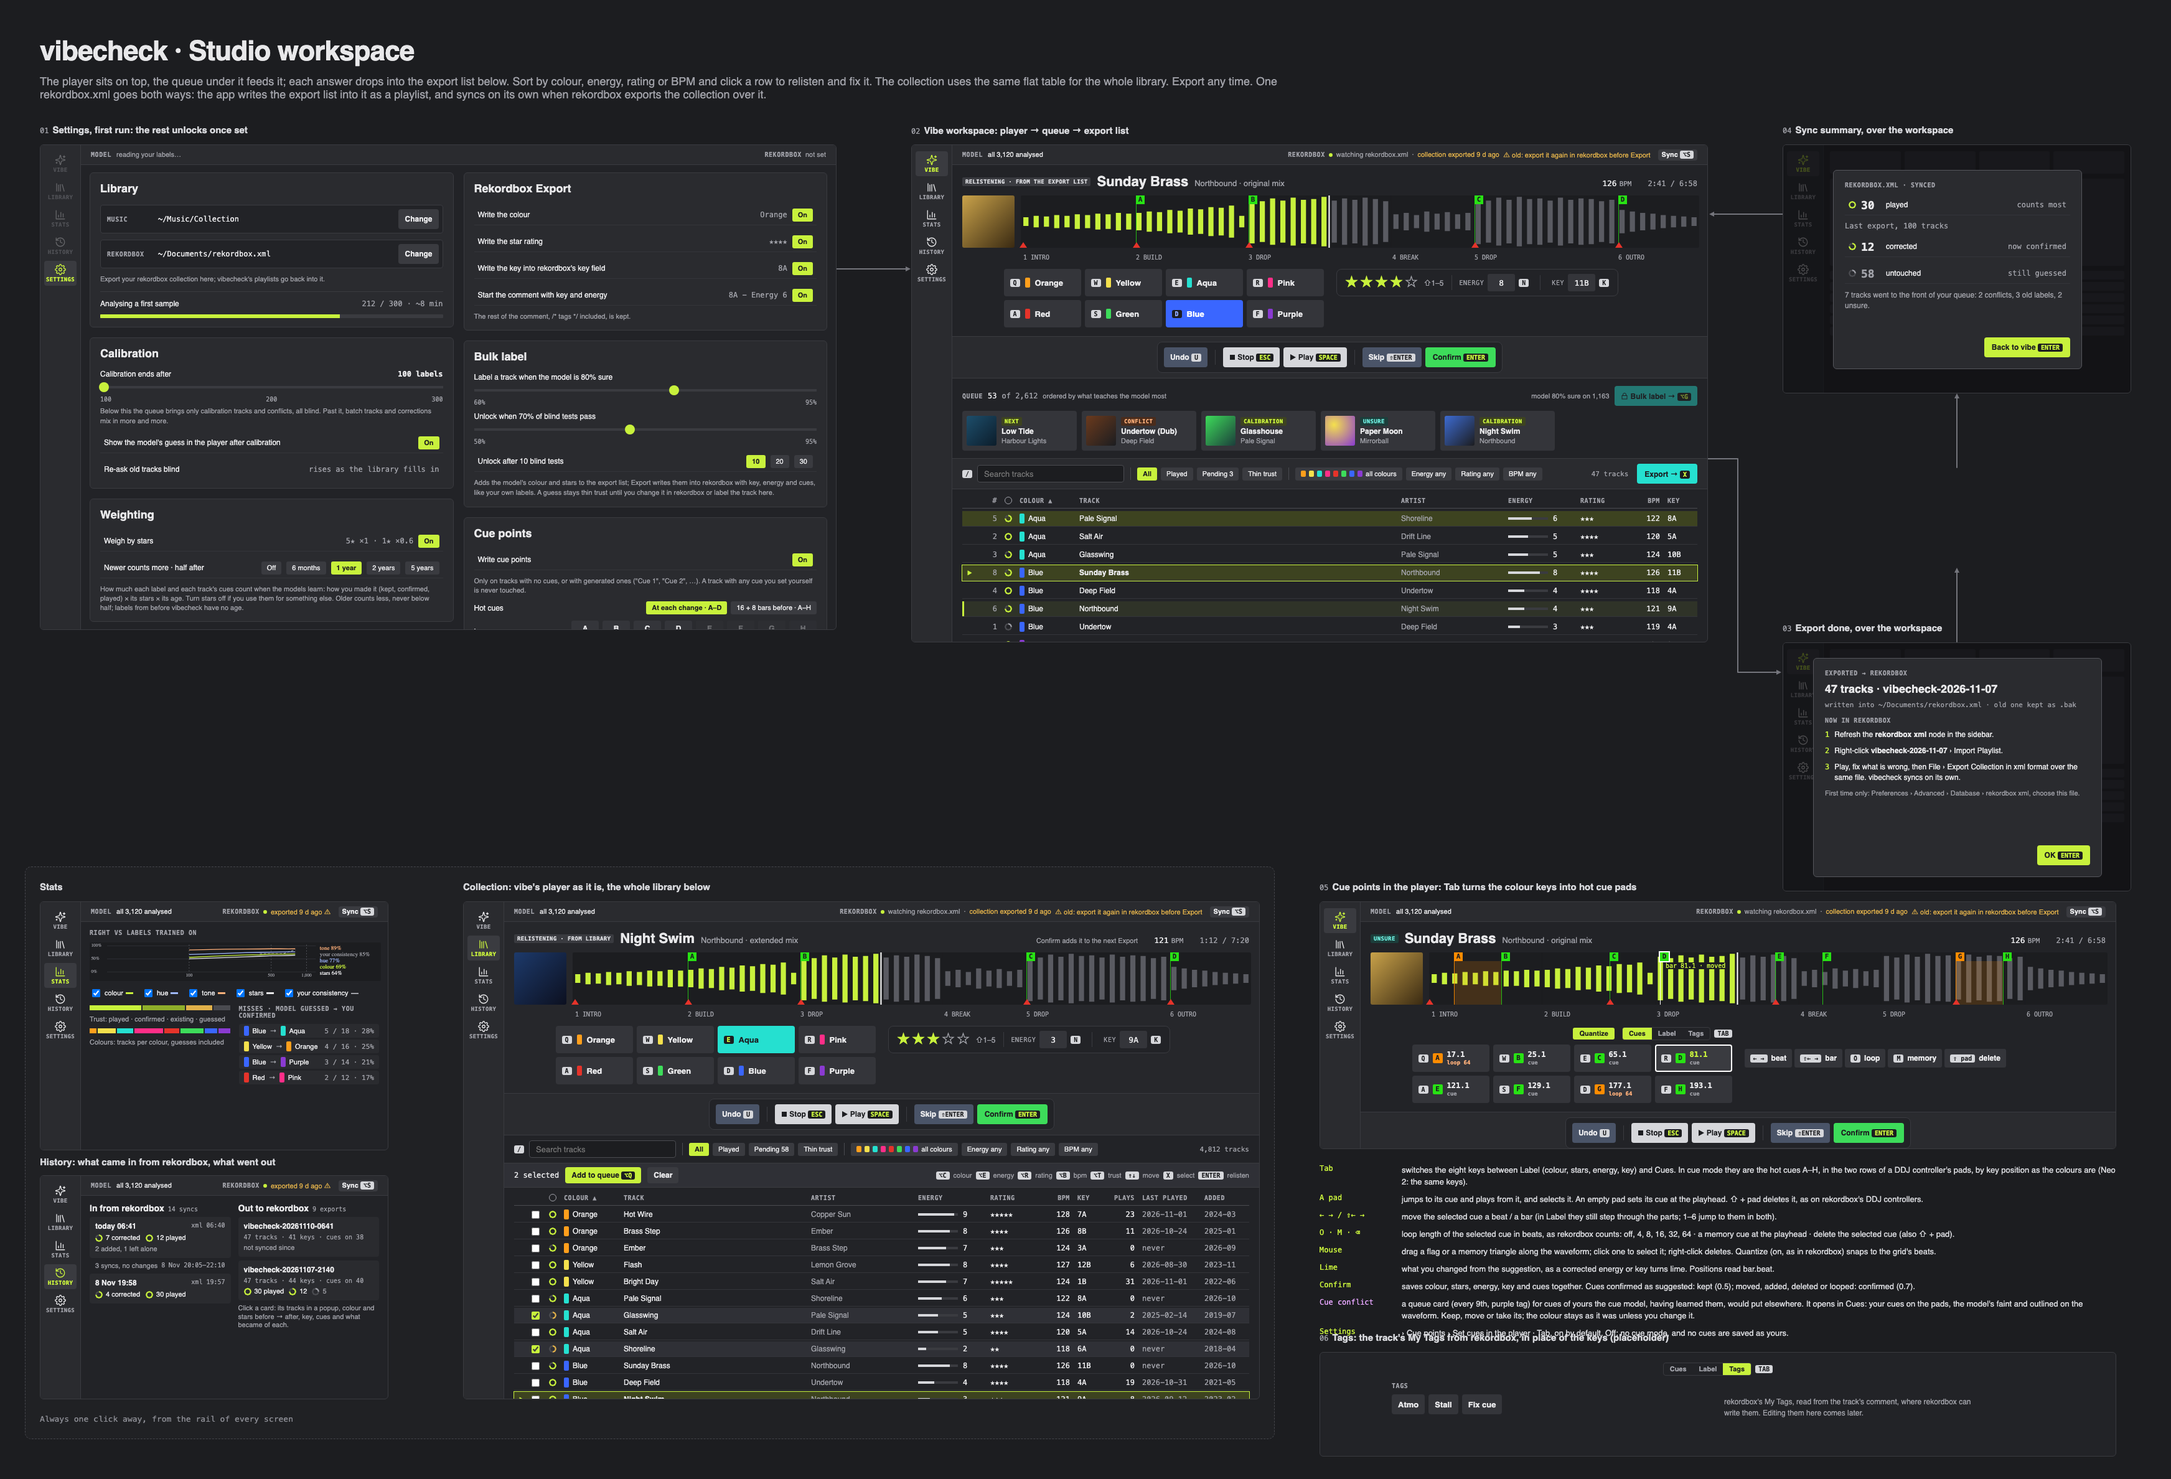
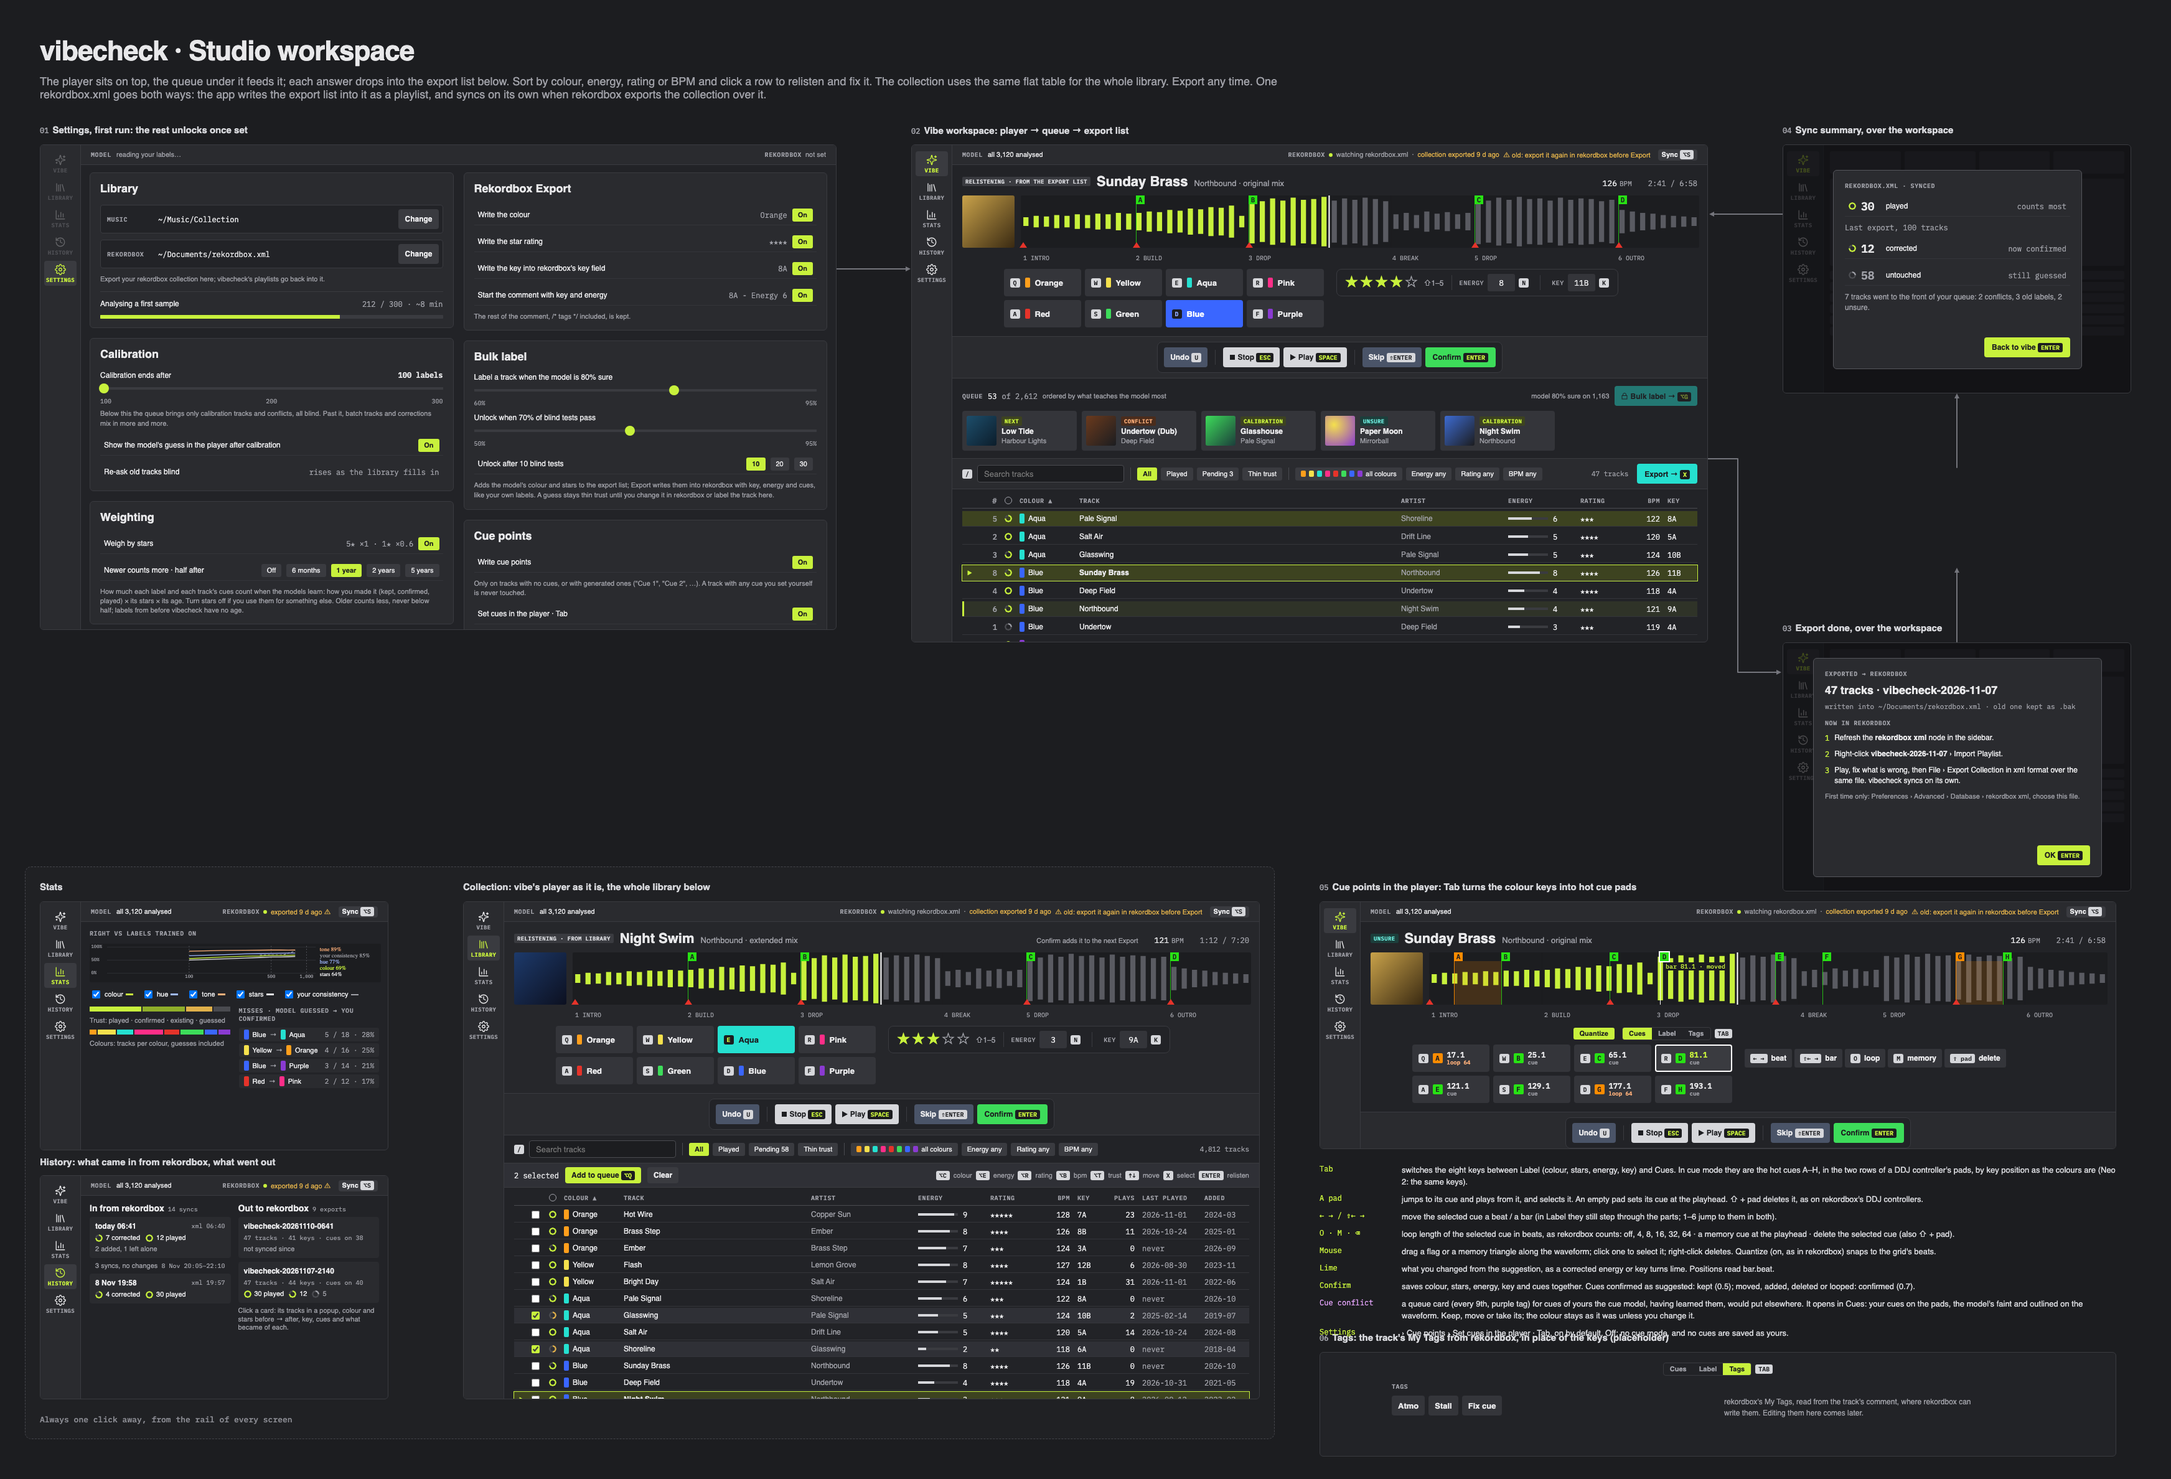
cues: remove placement settings (lead, loops, memory); v2 learns them, shipped v1 places one cue per change A-D with memory cues

diff --git a/docs/ui/workspace.html b/docs/ui/workspace.html
@@ -189,10 +189,8 @@ a{color:#c8f13c}a:hover{color:#e0ff7a}
 <div style="background: #2a2b2f; border: 1px solid #3a3b40; border-radius: 6px; padding: 14px 16px; display: flex; flex-direction: column; gap: 10px"><div style="display: flex; flex-direction: column; gap: 2px; margin-bottom: 6px"><span style="font-size: 18px; font-weight: 800">Cue points</span></div>
 <div class="tr" style="height: 32px"><span style="flex: 1">Write cue points</span><span class="chip chon">On</span></div>
 <span style="font-size: 11px; line-height: 15px; color: #a0a1a8">Only on tracks with no cues, or with generated ones ("Cue 1", "Cue 2", …). A track with any cue you set yourself is never touched.</span>
-<div style="display: flex; align-items: center; gap: 6px; font-size: 12px"><span style="flex: 1">Hot cues</span><span class="chip chon">At each change · A–D</span><span class="chip">16 + 8 bars before · A–H</span></div>
-<div style="display: flex; align-items: center; gap: 6px; font-size: 12px"><span style="flex: 1">Loops</span><div style="width: 44px; height: 36px; box-sizing: border-box; border-radius: 3px; background: #34353a; display: flex; flex-direction: column; align-items: center; justify-content: center; font-size: 12px; font-weight: 700">A<span style="font: 500 9px 'IBM Plex Mono', monospace; color: #a0a1a8">cue</span></div><div style="width: 44px; height: 36px; box-sizing: border-box; border-radius: 3px; background: #34353a; display: flex; flex-direction: column; align-items: center; justify-content: center; font-size: 12px; font-weight: 700">B<span style="font: 500 9px 'IBM Plex Mono', monospace; color: #a0a1a8">cue</span></div><div style="width: 44px; height: 36px; box-sizing: border-box; border-radius: 3px; background: #34353a; display: flex; flex-direction: column; align-items: center; justify-content: center; font-size: 12px; font-weight: 700">C<span style="font: 500 9px 'IBM Plex Mono', monospace; color: #a0a1a8">cue</span></div><div style="width: 44px; height: 36px; box-sizing: border-box; border-radius: 3px; background: #34353a; display: flex; flex-direction: column; align-items: center; justify-content: center; font-size: 12px; font-weight: 700">D<span style="font: 500 9px 'IBM Plex Mono', monospace; color: #a0a1a8">cue</span></div><div style="width: 44px; height: 36px; box-sizing: border-box; border-radius: 3px; background: #34353a; opacity: .35; display: flex; flex-direction: column; align-items: center; justify-content: center; font-size: 12px; font-weight: 700">E<span style="font: 500 9px 'IBM Plex Mono', monospace; color: #a0a1a8">cue</span></div><div style="width: 44px; height: 36px; box-sizing: border-box; border-radius: 3px; background: #34353a; opacity: .35; display: flex; flex-direction: column; align-items: center; justify-content: center; font-size: 12px; font-weight: 700">F<span style="font: 500 9px 'IBM Plex Mono', monospace; color: #a0a1a8">cue</span></div><div style="width: 44px; height: 36px; box-sizing: border-box; border-radius: 3px; background: #34353a; opacity: .35; display: flex; flex-direction: column; align-items: center; justify-content: center; font-size: 12px; font-weight: 700">G<span style="font: 500 9px 'IBM Plex Mono', monospace; color: #a0a1a8">cue</span></div><div style="width: 44px; height: 36px; box-sizing: border-box; border-radius: 3px; background: #34353a; opacity: .35; display: flex; flex-direction: column; align-items: center; justify-content: center; font-size: 12px; font-weight: 700">H<span style="font: 500 9px 'IBM Plex Mono', monospace; color: #a0a1a8">cue</span></div></div>
-<span style="font-size: 11px; line-height: 15px; color: #a0a1a8">Click a slot to make it a loop and set its length in bars, e.g. A and G as 16-bar loops to wait at the mix-in and mix-out.</span>
-<div class="tr" style="height: 32px; border-bottom: none"><span style="flex: 1">Memory cue on every hot cue and the first downbeat</span><span class="chip chon">On</span></div>
+<div class="tr" style="height: 32px"><span style="flex: 1">Set cues in the player · Tab</span><span class="chip chon">On</span></div>
+<span style="font-size: 11px; line-height: 15px; color: #a0a1a8">Where cues go, which loop and how long, and the memory cues are learned from yours: set them in the player or in rekordbox.</span>
 </div>
 </div>
 </div>

diff --git a/core/src/cues.rs b/core/src/cues.rs
@@ -6,8 +6,8 @@
 //!
 //! - **v2, generic**: per bar, where each hot cue slot goes, beats, loops, memory cues;
 //!   decoded into cues as they are (`decode_generic`). Trained in `cue_train`.
-//! - **v1, shipped**: four transition points (mix-in, two between, mix-out), with cues
-//!   placed around them by settings (`place`: `lead`, `loops`, `memory`).
+//! - **v1, shipped**: four transition points (mix-in, two between, mix-out), a hot cue
+//!   at each (`place`); what a new user starts with.
 
 use std::collections::{HashMap, HashSet};
 use std::f64::consts::PI;
@@ -958,13 +958,13 @@ impl Model {
     }
 
     /// The cues it would set on a track, and the bars it hears it change at (the waveform's
-    /// parts). v2 learned the cues as they are; v1 places them around its transitions with
-    /// `place` (the `[cues]` settings).
-    pub fn suggest(&self, f: &[Vec<f32>], t: &Track, p: &Placement) -> (Vec<Mark>, Vec<usize>) {
+    /// parts). v2 learned the cues as they are; v1 places them around its transitions: one
+    /// hot cue at each, A–D, and a memory cue on each and the first downbeat.
+    pub fn suggest(&self, f: &[Vec<f32>], t: &Track) -> (Vec<Mark>, Vec<usize>) {
         let down = downbeats(&t.tempos, t.duration + 2.0);
         if !self.generic {
             let tr = self.transitions(f);
-            return (place(&tr, &down, &p.lead, &p.loops, p.memory), tr);
+            return (place(&tr, &down, &[0], &[], true), tr);
         }
         let (s, e) = self.scores(f);
         let parts = pick(&s.iter().map(|r| r[out::HOT]).collect::<Vec<_>>(), TRANSITIONS, &[]);
@@ -972,18 +972,6 @@ impl Model {
     }
 }
 
-/// How the v1 model's transitions become cues: `[cues]` in the config.
-pub struct Placement {
-    pub lead: Vec<i64>,
-    pub loops: Vec<(String, i64)>,
-    pub memory: bool,
-}
-
-impl Placement {
-    pub fn of(cfg: &crate::config::Config) -> Placement {
-        Placement { lead: cfg.ints("cues", "lead", &[0]), loops: cfg.int_map("cues", "loops"), memory: cfg.bool("cues", "memory", true) }
-    }
-}
 
 /// The k best bars, at least GAP apart, keeping any already fixed.
 pub fn pick(score: &[f32], k: usize, fixed: &[usize]) -> Vec<usize> {

diff --git a/core/src/app.rs b/core/src/app.rs
@@ -1232,7 +1232,7 @@ pub fn export(root: &Path, xml_path: &Path, cfg: &Config) -> Res<Exported> {
         .collect();
     let plan = if cue { {
         let rest: Vec<String> = paths.iter().filter(|p| !set.contains_key(*p)).cloned().collect();
-        Some(workflow::plan_cues(root, cfg, &rest, &x)?)
+        Some(workflow::plan_cues(root, &rest, &x)?)
     } } else { None };
     let name = format!("vibecheck-{}", local(now(), "%Y%m%d-%H%M"));
     let entries: Vec<Entry> = paths
@@ -2015,7 +2015,7 @@ pub fn parts(root: &Path, xml_path: &Path, cfg: &Config, path: &str) -> Res<Part
         if let Some(f) = f {
             let down = cues::downbeats(&t.tempos, t.duration + 2.0);
             let names = ["mix in", "change", "change", "mix out"];
-            let (placed, trans) = cues::Model::load(root)?.suggest(&f, t, &cues::Placement::of(cfg));
+            let (placed, trans) = cues::Model::load(root)?.suggest(&f, t);
             suggested = placed.iter().filter_map(cue_of).collect();
             if !own_cues && cfg.bool("cues", "write", true) {
                 marks = placed;
@@ -2092,9 +2092,6 @@ pub fn settings(cfg: &Config) -> serde_json::Value {
         "write_comment": cfg.bool("rekordbox", "write_comment", true),
         "cues_write": cfg.bool("cues", "write", true),
         "cues_edit": cfg.bool("cues", "edit", true),
-        "cues_lead": cfg.ints("cues", "lead", &[0]),
-        "cues_loops": cfg.int_map("cues", "loops").into_iter().collect::<HashMap<_, _>>(),
-        "cues_memory": cfg.bool("cues", "memory", true),
         "guesses_sure": cfg.float("guesses", "sure", 0.8),
         "guesses_right": cfg.float("guesses", "right", 0.7),
         "guesses_measured": cfg.int("guesses", "measured", 10),

diff --git a/core/src/workflow.rs b/core/src/workflow.rs
@@ -4,7 +4,6 @@
 use std::collections::{HashMap, HashSet};
 use std::path::Path;
 
-use crate::config::Config;
 use crate::rekordbox::{self, Track};
 use crate::store::{self, Label};
 use crate::{Res, cues};
@@ -157,8 +156,7 @@ pub struct CuePlan {
     pub model: String,
 }
 
-pub fn plan_cues(root: &Path, cfg: &Config, rels: &[String], xml: &HashMap<String, Track>) -> Res<CuePlan> {
-    let placement = cues::Placement::of(cfg);
+pub fn plan_cues(root: &Path, rels: &[String], xml: &HashMap<String, Track>) -> Res<CuePlan> {
     let ok: HashMap<String, Track> = rels
         .iter()
         .filter_map(|r| xml.get(r).filter(|t| !t.tempos.is_empty() && cues::writable(t)).map(|t| (r.clone(), t.clone())))
@@ -167,7 +165,7 @@ pub fn plan_cues(root: &Path, cfg: &Config, rels: &[String], xml: &HashMap<Strin
     let (f, st) = cues::features_all(root, &ok)?;
     let mut marks = HashMap::new();
     for (r, f) in &f {
-        marks.insert(r.clone(), model.suggest(f, &ok[r], &placement));
+        marks.insert(r.clone(), model.suggest(f, &ok[r]));
     }
     Ok(CuePlan {
         marks,

diff --git a/core/examples/cue_quality.rs b/core/examples/cue_quality.rs
@@ -2,14 +2,14 @@
 //! cached ones, both scored against the user's own hand-set cues.
 //! usage: cue_quality [N]
 use std::collections::HashMap;
-use vibecheck::{config, cues, rekordbox, store};
+use vibecheck::{cues, rekordbox, store};
 
 fn main() -> vibecheck::Res<()> {
     let n: usize = std::env::args().nth(1).and_then(|s| s.parse().ok()).unwrap_or(100);
     let home = std::path::PathBuf::from(std::env::var("HOME")?);
     let root = home.join("Music/Collection");
-    let cfg = config::load(&root)?;
-    let lead = cfg.ints("cues", "lead", &[0]);
+    // the pairs your hand-set cues were measured in: 16 and 8 bars before a change
+    let lead = [16, 8];
     let xml = rekordbox::read(&home.join("Documents/rekordbox.xml"), &root)?;
     let written = store::cues_written(&store::labels_db(&root)?)?;
     let own = cues::yours(&xml, &written, &lead);

diff --git a/core/examples/cue_train.rs b/core/examples/cue_train.rs
@@ -81,9 +81,8 @@ fn main() -> vibecheck::Res<()> {
     let xml = rekordbox::read(&home.join("Documents/rekordbox.xml"), &root)?;
     let t0 = Instant::now();
     let data = cue_train::examples(&root, &xml, &cfg)?;
-    // the tracks v1 could learn from: your cues in its pairs
-    let old: HashSet<String> =
-        cues::yours(&xml, &store::cues_written(&store::labels_db(&root)?)?, &cfg.ints("cues", "lead", &[0])).into_keys().collect();
+    // the tracks v1 could learn from: your cues in its pairs, 16 and 8 bars before a change
+    let old: HashSet<String> = cues::yours(&xml, &store::cues_written(&store::labels_db(&root)?)?, &[16, 8]).into_keys().collect();
     let hand = data.iter().filter(|e| e.hand).count();
     let bars: usize = data.iter().map(|e| e.x.len()).sum();
     println!(

diff --git a/core/src/commands.rs b/core/src/commands.rs
@@ -248,7 +248,7 @@ pub fn label(root: &Path, cfg: &Config, args: &Args) -> Res<()> {
         } else {
             let tracks = rekordbox::read(x, root)?;
             cue_learning(root, cfg, &tracks)?;
-            let p = plan_cues(root, cfg, &batch, &tracks)?;
+            let p = plan_cues(root, &batch, &tracks)?;
             println!(
                 "      {} tracks get cues{}{}",
                 p.marks.len(),
@@ -513,7 +513,7 @@ pub fn cues(root: &Path, cfg: &Config, args: &Args) -> Res<()> {
     };
     println!("cue points for {} tracks", rels.len());
     cue_learning(root, cfg, &xml)?;
-    let plan = plan_cues(root, cfg, &rels, &xml)?;
+    let plan = plan_cues(root, &rels, &xml)?;
     println!(
         "   {} placed, {} from the cache{}{}",
         plan.marks.len(),

diff --git a/docs/cues.md b/docs/cues.md
@@ -9,8 +9,10 @@ Two models read the same per-bar features with the same network:
   slots A–H, beats, loops and memory cues, from yours. The app trains it
   as soon as you have enough cues of your own.
 - **v1, shipped**: four **transition points** per track (mix-in, two
-  between, mix-out), with the cues **placed** around them by settings
-  (`[cues] lead`, `loops`, `memory`). What a new user starts with. The
+  between, mix-out), a hot cue at each (A–D) and a memory cue on each and
+  the first downbeat. What a new user starts with. Its placement settings
+  (`[cues] lead`, `loops`, `memory`) went on 2026-11-26: v2 learns all of
+  that, so they only ever shaped a new user's first suggestions. The
   prototype's write-up of it is `prototype/docs/cues.md` in `prototype.zip`.
 
 ## Learning, as colours do
@@ -166,8 +168,9 @@ model only if hot cues exact is not below today's **50.1%**.
 3. The editor in the player card (Tab). **Done.**
 4. The generic model, weighted, validated against 50.1%. **Done**
    (2026-11-26, above).
-5. Settings: placement settings go; `cues::writable` reworked (a cue decision
-   made in the card is yours to write, whatever rekordbox had).
+5. Settings: placement settings go (**done** 2026-11-26); `cues::writable`
+   reworked (a cue decision made in the card is yours to write, whatever
+   rekordbox had).
 
 Decided 2026-11-24: slots learned per slot, not fixed to time order (tastes
 differ, keep it generic); cues on beats too.

diff --git a/docs/ui/decisions.md b/docs/ui/decisions.md
@@ -637,12 +637,14 @@ you think is best and we can iterate from there".
 - **Cue points**
   - Write cue points (`[cues] write`). They go only on tracks with no cues or
     with generated ones; a track with any cue you set yourself is never touched.
-  - Hot cues (`[cues] lead`), two presets:
-    - "At each change · A–D" = `[0]`;
-    - "16 + 8 bars before · A–H" = `[16, 8]`.
-  - Loops (`[cues] loops`): slots A–H, each a cue or a loop. Click a slot to
-    set its length in bars. Slots the chosen preset doesn't use are dimmed.
-  - Memory cue on every hot cue and the first downbeat (`[cues] memory`).
+  - Set cues in the player · Tab (`[cues] edit`).
+  - One line: where cues go, loops and memory cues are learned from yours,
+    set in the player or in rekordbox.
+  - Hot cues (two presets, `[cues] lead`), Loops (slots A–H) and Memory cue
+    on every hot cue went on 2026-11-26 (the user: "remove the unused cue
+    placement settings"): the cue model learns them (v2); the shipped model
+    a new user starts with places one cue at each change, A–D, with memory
+    cues.
 - Key and energy you correct in the player are saved with Confirm in `labels.db`
   (`key_energy`, schema v5, the first the Python prototype can't open) and
   win over the analysis in the library and in every export.
